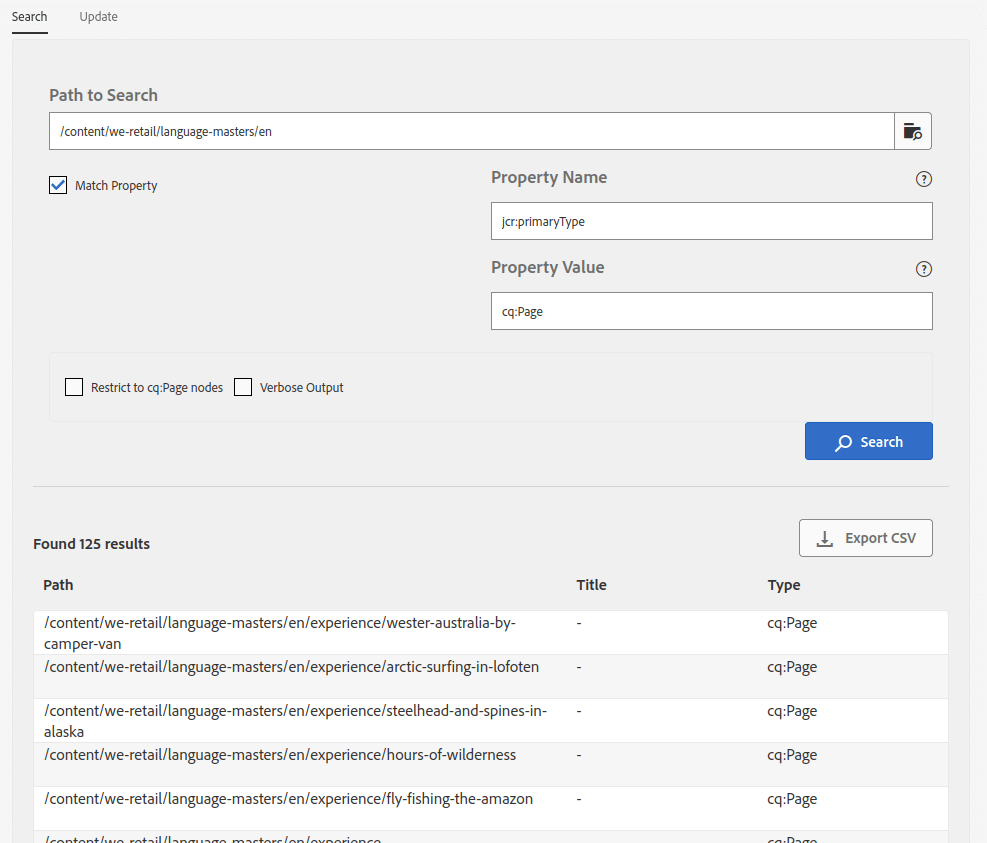
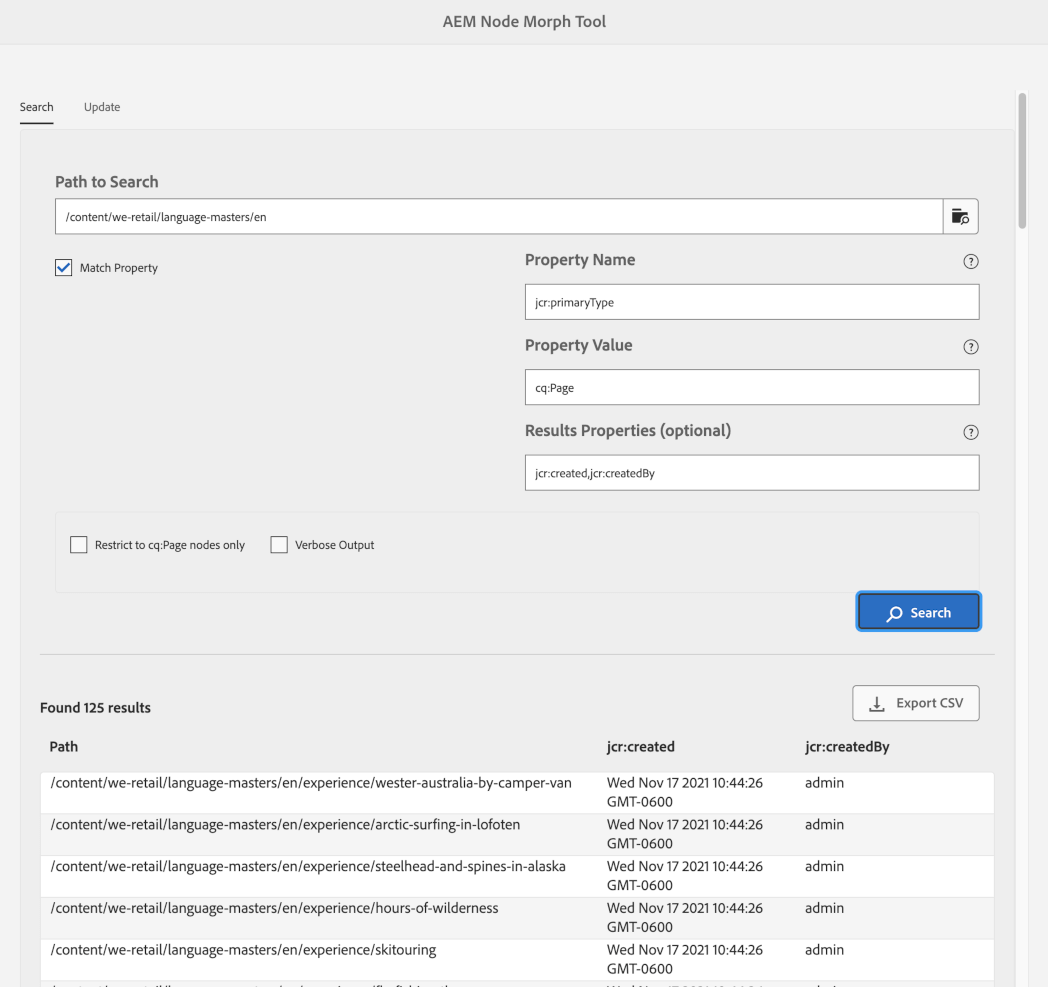
Implemented custom return properties for content search

diff --git a/ui.apps/src/main/content/jcr_root/apps/aemnodemorph/admin/clientlibs/js/nodemorph.js b/ui.apps/src/main/content/jcr_root/apps/aemnodemorph/admin/clientlibs/js/nodemorph.js
@@ -57,8 +57,9 @@
             const propName = $('#property-name-field').val();
             const pageOnly = $("coral-checkbox[name='pageOnly']").prop('checked');
             const verbose = $("coral-checkbox[name='verbose']").prop('checked');
-            let url = '/bin/querybuilder.json?path=' + encodeURIComponent(path) + '&p.limit=1000&p.hits=full';
-            url += '&p.hits=full&p.nodedepth=0';
+            const propertiesInput = $('#properties-field').val()
+            const properties = propertiesInput ? propertiesInput.split(',').map(p => p.trim()).filter(p => p) : [PN_JCR_TITLE, PN_JCR_PRIMARY_TYPE]
+            let url = '/bin/querybuilder.json?path=' + encodeURIComponent(path) + '&p.limit=1000&p.hits=full&p.nodedepth=0'
 
             if (pageOnly) {
                 url += '&type=cq:Page'
@@ -70,9 +71,13 @@
                     url += '&nodename=' + encodeURIComponent(query)
                 }
             }
+            properties.forEach((prop, index) => {
+                url += `&${index + 1}_property=${encodeURIComponent(prop)}`
+            })
 
             $.getJSON(url, function(data) {
                 const tbody = $('#nodemorph-search-results .coral-Table-body').empty();
+                const thead = $('#search-results-header').empty()
                 const resultCount = data.results;
                 $('#result-text').text(`Found ${resultCount} result${resultCount === 1 ? '' : 's'}`)
                 lastSearchResults = data.hits
@@ -80,17 +85,26 @@
                 $('#nodemorph-search-results').css('display', resultCount > 0 ? 'table' : 'none')
 
                 if (data.hits && data.hits.length > 0) {
+                    const displayHeaders = propertiesInput ? properties : ['Title', 'Type']
+                    const headers = ['Path'].concat(properties.length > 0 ? properties : [PN_JCR_TITLE, PN_JCR_PRIMARY_TYPE])
+                    const headerRow = document.createElement('tr')
+                    headerRow.className = 'coral-Table-row'
+                    headerRow.innerHTML = headers.map(h => `<th class="coral-Table-headerCell">${h}</th>`).join('')
+                    thead.append(headerRow)
+
                     data.hits.forEach(function(hit) {
                         const row = document.createElement('tr');
                         row.className = 'coral-Table-row';
-                        row.innerHTML = `
-                            <td class='coral-Table-cell'>${hit[PN_JCR_PATH]}</td>
-                            <td class='coral-Table-cell'>${hit[PN_JCR_TITLE] || '-'}</td>
-                            <td class='coral-Table-cell'>${matchProp && propName ? hit[propName] || 'N/A' : hit[PN_JCR_PRIMARY_TYPE]}</td>
-                        `;
+                        const cells = [hit[PN_JCR_PATH]]
+                        if (propertiesInput) {
+                            properties.forEach(prop => cells.push(hit[prop] || '-'))
+                        } else {
+                            cells.push(hit[PN_JCR_TITLE] || '-', hit[PN_JCR_PRIMARY_TYPE])
+                        }
+                        row.innerHTML = cells.map(cell => `<td class="coral-Table-cell">${cell}</td>`).join('')
                         if (verbose) {
                             const props = Object.entries(hit)
-                                .filter(([key]) => !['path', 'name', PN_JCR_PRIMARY_TYPE].includes(key))
+                                .filter(([key]) => ![PN_JCR_PATH, 'name', PN_JCR_PRIMARY_TYPE].includes(key))
                                 .map(([key, val]) => `${key}: ${val}`)
                                 .join('\n');
                             row.setAttribute('title', props);
@@ -98,7 +112,7 @@
                         tbody.append(row);
                     });
                 } else {
-                    tbody.innerHTML = '<tr class="coral-Table-row"><td class="coral-Table-cell" colspan="3">No results found</td></tr>';
+                    tbody.innerHTML = '<tr class="coral-Table-row"><td class="coral-Table-cell" colspan="' + (properties.length + 1 || 3) + '">No results found</td></tr>'
                 }
             }).fail(function(xhr) {
                 $('#result-text').text('Search failed')
@@ -116,19 +130,21 @@
         $('#export-csv-btn').on('click', function() {
             if (lastSearchResults.length === 0) return
 
-            const headers = ['Path', 'Title', 'Matched Value']
-            const csvRows = [headers.join(',')]
+            const propertiesInput = $('#properties-field').val()
+            const properties = propertiesInput ? propertiesInput.split(',').map(p => p.trim()).filter(p => p) : [PN_JCR_TITLE, PN_JCR_PRIMARY_TYPE]
+            const displayHeaders = propertiesInput ? properties : ['Title', 'Type']
+            const headers = ['Path'].concat(displayHeaders)
+            const csvRows = [headers.map(h => `"${h}"`).join(',')]
 
             lastSearchResults.forEach(hit => {
-                const matchProp = $matchPropCheckbox.prop('checked')
-                const propName = $('#property-name-field').val()
-                const row = [
-                    `"${hit[PN_JCR_PATH]}"`,
-                    `"${hit[PN_JCR_TITLE] || '-'}"`,
-                    `"${matchProp && propName ? hit[propName] || 'N/A' : hit[PN_JCR_PRIMARY_TYPE]}"`
-                ]
-                csvRows.push(row.join(','))
-            })
+                const row = [hit[PN_JCR_PATH]]
+                if (properties.length > 0) {
+                    properties.forEach(prop => row.push(hit[prop] || '-'))
+                } else {
+                    row.push(hit[PN_JCR_TITLE] || '-', hit[PN_JCR_PRIMARY_TYPE])
+                }
+                csvRows.push(row.map(val => `"${String(val).replace(/"/g, '""')}"`).join(','))
+            });
 
             const csvContent = csvRows.join('\n')
             const blob = new Blob([csvContent], { type: 'text/csv;charset=utf-8;' })

diff --git a/ui.apps/src/main/content/jcr_root/apps/aemnodemorph/admin/components/nodemorph/nodemorph.html b/ui.apps/src/main/content/jcr_root/apps/aemnodemorph/admin/components/nodemorph/nodemorph.html
@@ -98,6 +98,16 @@
                                                                     </div>
                                                                     <input is="coral-textfield" name="query" id="query-field" placeholder="Enter node name (e.g., mynode_*)"/>
                                                                 </div>
+                                                                <div class="coral-Form-fieldwrapper">
+                                                                    <div class="label-wrapper">
+                                                                        <label class="coral-Form-fieldlabel coral-Heading coral-Heading--3">Results Properties (optional)</label>
+                                                                        <coral-icon icon="help" size="S"></coral-icon>
+                                                                        <coral-tooltip placement="left" target="_prev">
+                                                                            When no properties are specified, the default output columns are Title and Type.
+                                                                        </coral-tooltip>
+                                                                    </div>
+                                                                    <input is="coral-textfield" name="properties" id="properties-field" placeholder="e.g., jcr:title,customProp1,customProp2" />
+                                                                </div>
                                                             </div>
                                                         </div>
                                                     </div>
@@ -119,13 +129,7 @@
                                                 </button>
                                             </div>
                                             <table class="coral-Table coral-Table--hover nodemorph-results-table" id="nodemorph-search-results" style="display: none;">
-                                                <thead class="coral-Table-header">
-                                                <tr class="coral-Table-row">
-                                                    <th class="coral-Table-headerCell">Path</th>
-                                                    <th class="coral-Table-headerCell">Title</th>
-                                                    <th class="coral-Table-headerCell">Type</th>
-                                                </tr>
-                                                </thead>
+                                                <thead class="coral-Table-header" id="search-results-header"></thead>
                                                 <tbody class="coral-Table-body"></tbody>
                                             </table>
                                         </div>

diff --git a/README.md b/README.md
@@ -31,9 +31,10 @@ The **Search Tab** is your window into the JCR repository, offering a fast, flex
 - **Path-Based Search:** Start with a JCR path (e.g., `/content/my-site`) using the integrated path browser. The tool searches all nodes beneath this root, giving you a comprehensive view of your content structure.
 - **Property Filtering:** Narrow results by matching a property name (e.g., `sling:resourceType`) to a specific value—perfect for finding nodes with particular characteristics.
 - **Node Name Queries:** Use wildcards (e.g., `mynode_*`) to pinpoint nodes by name, ideal for targeting specific structures like `jcr:content`.
+- **Custom Property Output:** Specify properties (e.g., `jcr:title`, `customProp1`) to include in results— great for comparing specific property values across nodes.
 - **Page Restriction:** Toggle the “Restrict to cq:Page nodes only” option to focus solely on page nodes, streamlining searches in page-heavy repositories.
 - **Verbose Output:** Enable detailed results to see all properties of matched nodes, not just the basics (path, title, type).
-- **Export to CSV:** Once results load, export them as a downloadable CSV file for offline analysis or documentation.
+- **Export to CSV:** Once results load, export them as a downloadable CSV file with your chosen properties, perfect for offline analysis, documentation, or property comparisons.
 
 ### Use Case
 
